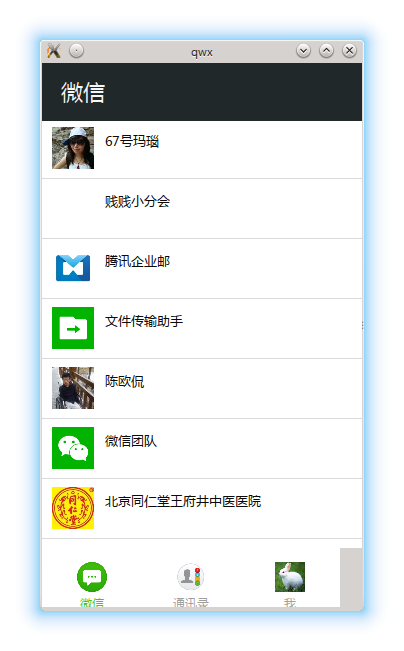
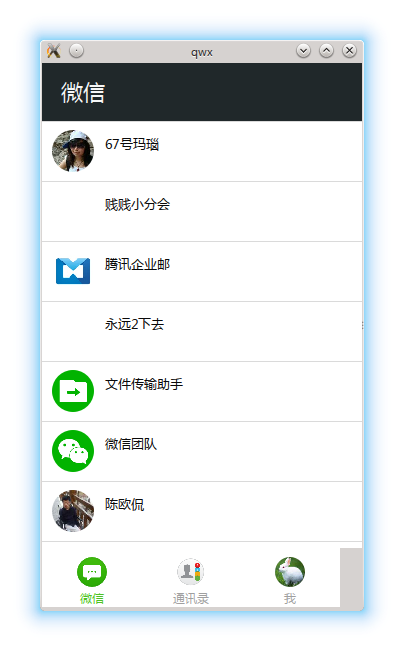
Add circleimage

diff --git a/qml/NavigatorView.qml b/qml/NavigatorView.qml
@@ -38,7 +38,7 @@ Item {
 
                 IconTab {
                     title: "微信"
-                    iconSource: "../images/messages.png"
+                    iconSource: "images/messages.png"
                     WXView {
                         uin: navigatorView.uin
                         sid: navigatorView.sid
@@ -50,7 +50,7 @@ Item {
 
                 IconTab {
                     title: "通讯录"
-                    iconSource: "../images/contacts.png"
+                    iconSource: "images/contacts.png"
                     ContactListView {
                         uin: navigatorView.uin 
                         sid: navigatorView.sid 
@@ -72,10 +72,12 @@ Item {
                         implicitWidth: 100
                         implicitHeight: 60
 
-                        Image {
+                        CircleImage {
                             id: iconImage
-                            anchors.centerIn: parent
-                            source: navigatorTabView.getTab(styleData.index).iconSource
+                            anchors.horizontalCenter: parent.horizontalCenter
+                            anchors.top: parent.top
+                            anchors.topMargin: 10
+                            imageSource: navigatorTabView.getTab(styleData.index).iconSource
                             width: 30; height: 30
                         }
 

diff --git a/qml/ContactListView.qml b/qml/ContactListView.qml
@@ -35,11 +35,11 @@ Item {
                 id: headImgObj                                                     
                 userName: modelData.userName                                       
                 onFilePathChanged: {                                               
-                    headImage.source = headImgObj.filePath                         
+                    headImage.imageSource = headImgObj.filePath
                 }                                                                  
             }                                                                      
                                                                                    
-            Image {                                                                
+            CircleImage {
                 id: headImage                                                      
                 width: 42; height: 42                                              
                 anchors.top: parent.top                                            

diff --git a/qml/WXView.qml b/qml/WXView.qml
@@ -26,11 +26,11 @@ Item {
                 id: headImgObj
                 userName: modelData.userName
                 onFilePathChanged: {
-                    headImage.source = headImgObj.filePath
+                    headImage.imageSource = headImgObj.filePath
                 }
             }
 
-            Image {
+            CircleImage {
                 id: headImage
                 width: 42; height: 42
                 anchors.verticalCenter: parent.verticalCenter

diff --git a/src/circleimage.cpp b/src/circleimage.cpp
@@ -1,0 +1,50 @@
+// Copyright (C) 2014 Leslie Zhai <xiang.zhai@i-soft.com.cn>
+
+#include "circleimage.h"
+
+CircleImage::CircleImage(QQuickItem* parent)
+  : QQuickPaintedItem(parent), 
+    m_color(Qt::white), 
+    m_imageSource("") 
+{
+}
+
+CircleImage::~CircleImage() 
+{
+}
+
+QColor CircleImage::color() const { return m_color; }
+void CircleImage::setColor(const QColor & color) 
+{
+    if (m_color != color) {
+        m_color = color;
+        emit colorChanged();
+        update();
+    }
+}
+
+QString CircleImage::imageSource() const { return m_imageSource; }
+void CircleImage::setImageSource(const QString & imageSource) 
+{
+    if (m_imageSource != imageSource) {
+        m_imageSource = imageSource;
+        if (m_imageSource.contains("qrc:/qml")) 
+            m_imageSource.replace("qrc:/qml", ":");
+        else if (m_imageSource.contains("file://")) 
+            m_imageSource.replace("file://", "");
+        emit imageSourceChanged();
+        update();
+    }
+}
+
+void CircleImage::paint(QPainter* painter) 
+{
+    QImage image(m_imageSource);
+    QPainterPath path;
+    path.addRect(0, 0, width(), height());
+    path.addEllipse(0, 0, width(), height());
+    painter->setRenderHints(QPainter::Antialiasing);
+    painter->setRenderHints(QPainter::SmoothPixmapTransform);
+    painter->drawImage(0, 0, image.scaled(width(), height()));
+    painter->fillPath(path, QBrush(m_color));
+}

diff --git a/src/circleimage.h b/src/circleimage.h
@@ -1,0 +1,33 @@
+// Copyright (C) 2014 Leslie Zhai <xiang.zhai@i-soft.com.cn>
+
+#include <QtQuick/QQuickPaintedItem>
+#include <QPainter>
+
+class CircleImage : public QQuickPaintedItem 
+{
+    Q_OBJECT
+
+    Q_PROPERTY(QColor color READ color WRITE setColor NOTIFY colorChanged)
+    Q_PROPERTY(QString imageSource READ imageSource WRITE setImageSource NOTIFY imageSourceChanged)
+
+public:
+    CircleImage(QQuickItem* parent = nullptr);
+    ~CircleImage();
+
+    QColor color() const;
+    void setColor(const QColor & color);
+
+    QString imageSource() const;
+    void setImageSource(const QString & imageSource);
+
+Q_SIGNALS:
+    void colorChanged();
+    void imageSourceChanged();
+
+protected:
+    void paint(QPainter* painter);
+
+private:
+    QColor m_color;
+    QString m_imageSource;
+};

diff --git a/src/main.cpp b/src/main.cpp
@@ -17,6 +17,7 @@
 #include "sendmsg.h"
 #include "monitor.h"
 #include "getmsg.h"
+#include "circleimage.h"
 
 int main(int argc, char* argv[]) 
 {                                                                        
@@ -37,6 +38,7 @@ int main(int argc, char* argv[])
     qmlRegisterType<SendMsg>("cn.com.isoft.qwx", 1, 0, "SendMsg");
     qmlRegisterType<Monitor>("cn.com.isoft.qwx", 1, 0, "Monitor");
     qmlRegisterType<GetMsg>("cn.com.isoft.qwx", 1, 0, "GetMsg");
+    qmlRegisterType<CircleImage>("cn.com.isoft.qwx", 1, 0, "CircleImage");
 
     QQmlApplicationEngine engine(QUrl("qrc:/qml/main.qml")); 
     QObject* topLevel = engine.rootObjects().value(0);
